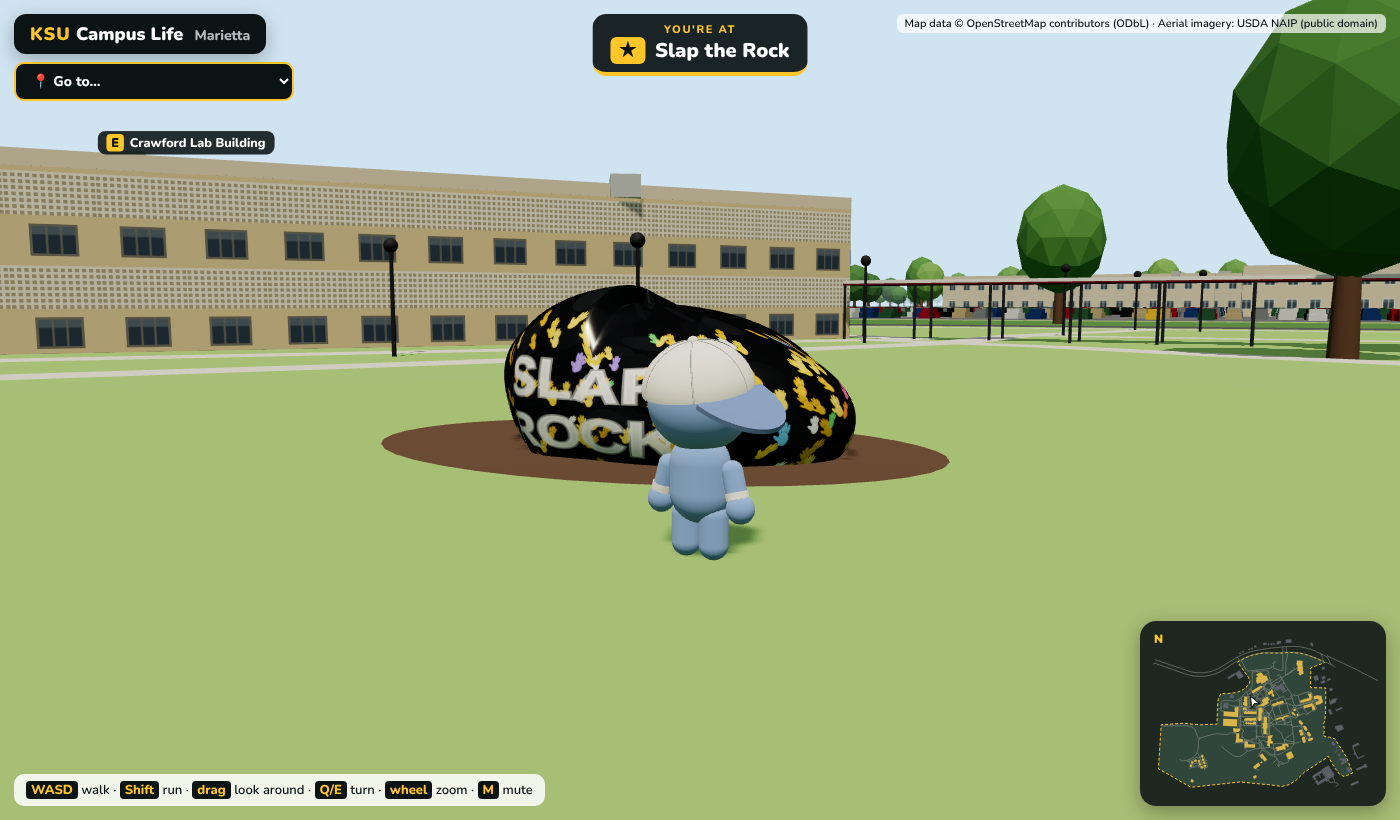
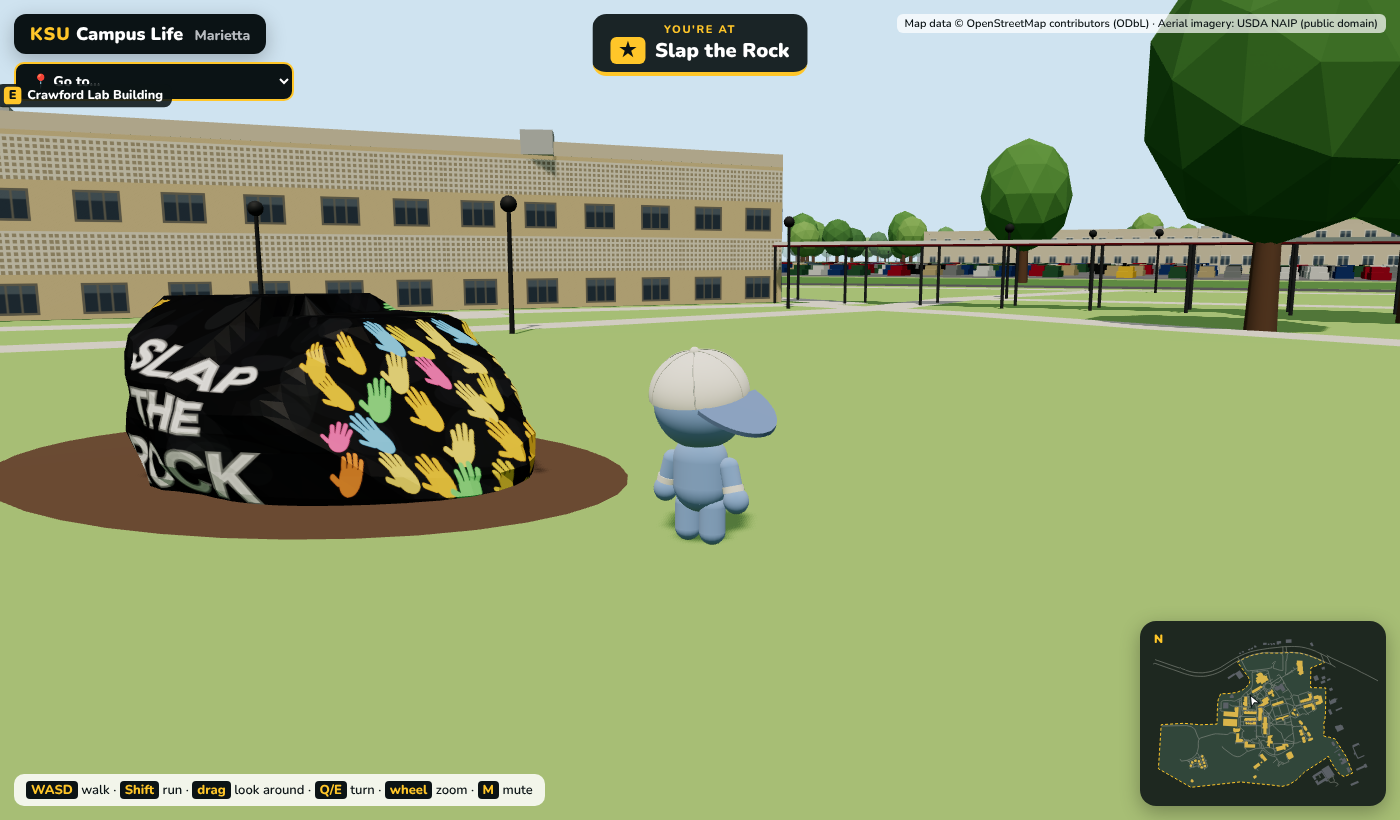
Slap the Rock: craggy faceted stone, clear handprints, SLAP THE ROCK lettering
Claude-Session: https://claude.ai/code/session_016FpQLPQd8gy2PGBTzdiGSi

diff --git a/src/scene/Landmarks.tsx b/src/scene/Landmarks.tsx
@@ -59,6 +59,7 @@ function rockTexture(): THREE.CanvasTexture {
     g.ellipse(r() * c.width, r() * c.height, 20 + r() * 80, 12 + r() * 40, r() * 3, 0, Math.PI * 2)
     g.fill()
   }
+  // a clear handprint: rounded palm, four separate fingers, thumb out to the side
   const hand = (x: number, y: number, s: number, rot: number, col: string) => {
     g.save()
     g.translate(x, y)
@@ -66,33 +67,52 @@ function rockTexture(): THREE.CanvasTexture {
     g.scale(s / 1.75, s) // pre-squeeze: the rock is stretched 1.75x wide
     g.fillStyle = col
     g.beginPath()
-    g.ellipse(0, 10, 15, 17, 0, 0, Math.PI * 2)
+    g.moveTo(-16, 4)
+    g.quadraticCurveTo(-18, 30, 0, 32)
+    g.quadraticCurveTo(18, 30, 16, 4)
+    g.quadraticCurveTo(0, -4, -16, 4)
     g.fill()
-    const fingers: [number, number, number, number, number][] = [[-12, -13, 4.3, 11, -0.25], [-4, -18, 4.3, 13, -0.08], [4, -18, 4.3, 13, 0.08], [11.5, -13, 4, 11, 0.25], [-19, 7, 4.3, 10, -0.9]]
-    for (const [fx, fy, rx, ry, a] of fingers) {
+    const finger = (fx: number, fy: number, len: number, ang: number) => {
+      g.save()
+      g.translate(fx, fy)
+      g.rotate(ang)
       g.beginPath()
-      g.ellipse(fx, fy, rx, ry, a, 0, Math.PI * 2)
+      g.roundRect(-3.6, -len, 7.2, len + 4, 3.6)
       g.fill()
+      g.restore()
     }
+    finger(-11.5, 4, 17, -0.22)
+    finger(-4, 1, 21, -0.07)
+    finger(4, 1, 22, 0.06)
+    finger(11.5, 4, 18, 0.2)
+    finger(-16, 18, 15, -1.05) // thumb
     g.restore()
   }
-  const yellows = ['#FFC629', '#F5D33B', '#E8B516', '#FFE066']
-  const others = ['#ffffff', '#ffffff', '#7fd0ff', '#ff7ab6', '#7be07b', '#ff9a3c', '#b9a5ff']
-  for (let i = 0; i < 800; i++) {
-    const col = r() < 0.72 ? yellows[Math.floor(r() * yellows.length)] : others[Math.floor(r() * others.length)]
-    hand(r() * c.width, 240 + r() * 600, 0.75 + r() * 0.3, (r() - 0.5) * 1.2, col)
+  // keep prints off the lettering, and spaced out so each one reads as a hand
+  const TX = c.width * 0.25
+  const inText = (x: number, y: number) => Math.abs(x - TX) < 300 && y > 250 && y < 660
+  const placed: [number, number][] = []
+  const yellows = ['#FFC629', '#F5D33B', '#FFE066']
+  const others = ['#ffffff', '#7fd0ff', '#ff7ab6', '#7be07b', '#ff9a3c']
+  for (let tries = 0; tries < 6000 && placed.length < 230; tries++) {
+    const x = r() * c.width
+    const y = 250 + r() * 560
+    if (inText(x, y) || placed.some(([px, py]) => Math.abs(px - x) < 46 && Math.abs(py - y) < 64)) continue
+    placed.push([x, y])
+    const col = r() < 0.75 ? yellows[Math.floor(r() * yellows.length)] : others[Math.floor(r() * others.length)]
+    hand(x, y, 1.55 + r() * 0.35, (r() - 0.5) * 1.1, col)
   }
-  // "SLAP / ROCK" in chunky white paint on the front (u ~ 0.25 faces +z)
+  // "SLAP / THE / ROCK" in chunky white paint on the front (u ~ 0.25 faces +z)
   g.save()
-  g.translate(c.width * 0.25, 0)
-  g.scale(1 / 1.75 * 1.6, 1)
-  g.fillStyle = 'rgba(255,255,255,.93)'
-  g.strokeStyle = 'rgba(255,255,255,.6)'
-  g.lineWidth = 10
-  g.font = '900 150px Impact, "Arial Black", sans-serif'
+  g.translate(TX, 0)
+  g.scale((1 / 1.75) * 1.55, 1)
+  g.fillStyle = 'rgba(255,255,255,.94)'
+  g.strokeStyle = 'rgba(255,255,255,.55)'
+  g.lineWidth = 9
   g.textAlign = 'center'
   g.textBaseline = 'middle'
-  for (const [txt, y] of [['SLAP', 410], ['ROCK', 570]] as const) {
+  for (const [txt, y, size] of [['SLAP', 330, 130], ['THE', 450, 95], ['ROCK', 570, 130]] as const) {
+    g.font = `900 ${size}px Impact, "Arial Black", sans-serif`
     g.strokeText(txt, 0, y)
     g.fillText(txt, 0, y)
   }
@@ -106,23 +126,29 @@ function rockTexture(): THREE.CanvasTexture {
 /** "Slap the Rock": a big, low, lumpy boulder in glossy black paint with handprints, on a mulch bed. */
 function SlapTheRock({ at }: { at: Pt }) {
   const geo = useMemo(() => {
-    const g = new THREE.SphereGeometry(1, 96, 56)
+    const g = new THREE.SphereGeometry(1, 44, 26)
     const p = g.getAttribute('position')
     const v = new THREE.Vector3()
+    // a few big "fracture planes" cut flat faces into it, then small chips: craggy, like real stone
+    const planes = [[0.8, 0.5, 0.3, 0.86], [-0.6, 0.7, -0.4, 0.84], [0.1, 0.9, 0.6, 0.8], [-0.9, -0.1, 0.5, 0.88], [0.4, 0.2, -0.9, 0.87], [0.0, 1, 0, 0.82]]
+      .map(([x, y, z, d]) => ({ n: new THREE.Vector3(x, y, z).normalize(), d }))
     for (let i = 0; i < p.count; i++) {
       v.fromBufferAttribute(p, i)
-      // irregular lumps at a few scales (a real boulder, not an egg), flattened bottom
-      const n = 1 + 0.14 * Math.sin(v.x * 1.8 + 0.7) * Math.cos(v.z * 1.5 + 0.3) + 0.09 * Math.sin(v.y * 2.4 + v.x * 1.6)
-        + 0.05 * Math.cos(v.z * 4.1 - v.y * 2.2) + 0.03 * Math.sin(v.x * 7 + v.z * 5)
+      const n = 1 + 0.16 * Math.sin(v.x * 1.7 + 0.7) * Math.cos(v.z * 1.4 + 0.3) + 0.1 * Math.sin(v.y * 2.3 + v.x * 1.6)
+        + 0.06 * Math.cos(v.z * 4.3 - v.y * 2.1) + 0.045 * Math.sin(v.x * 9.1 + v.z * 7.3) * Math.cos(v.y * 8.2)
       v.multiplyScalar(n)
+      for (const pl of planes) {
+        const k = v.dot(pl.n)
+        if (k > pl.d) v.addScaledVector(pl.n, pl.d - k) // slice it flat
+      }
       const y = v.y < 0 ? Math.max(v.y, -0.45) : v.y * (v.x > 0 ? 0.85 : 1) // sloping top, higher on one end
-      v.set(v.x * 1.75, y * 1.05, v.z * 1.35)
+      v.set(v.x * 1.75, y * 1.3, v.z * 1.35)
       p.setXYZ(i, v.x, v.y, v.z)
     }
     g.computeVertexNormals()
     return g
   }, [])
-  const mat = useMemo(() => new THREE.MeshStandardMaterial({ map: rockTexture(), roughness: 0.22, metalness: 0.05 }), [])
+  const mat = useMemo(() => new THREE.MeshStandardMaterial({ map: rockTexture(), roughness: 0.35, metalness: 0.05, flatShading: true }), [])
   return (
     <group position={[at[0], 0, at[1]]} rotation={[0, 0.6, 0]}>
       {/* mulch / dirt bed */}
